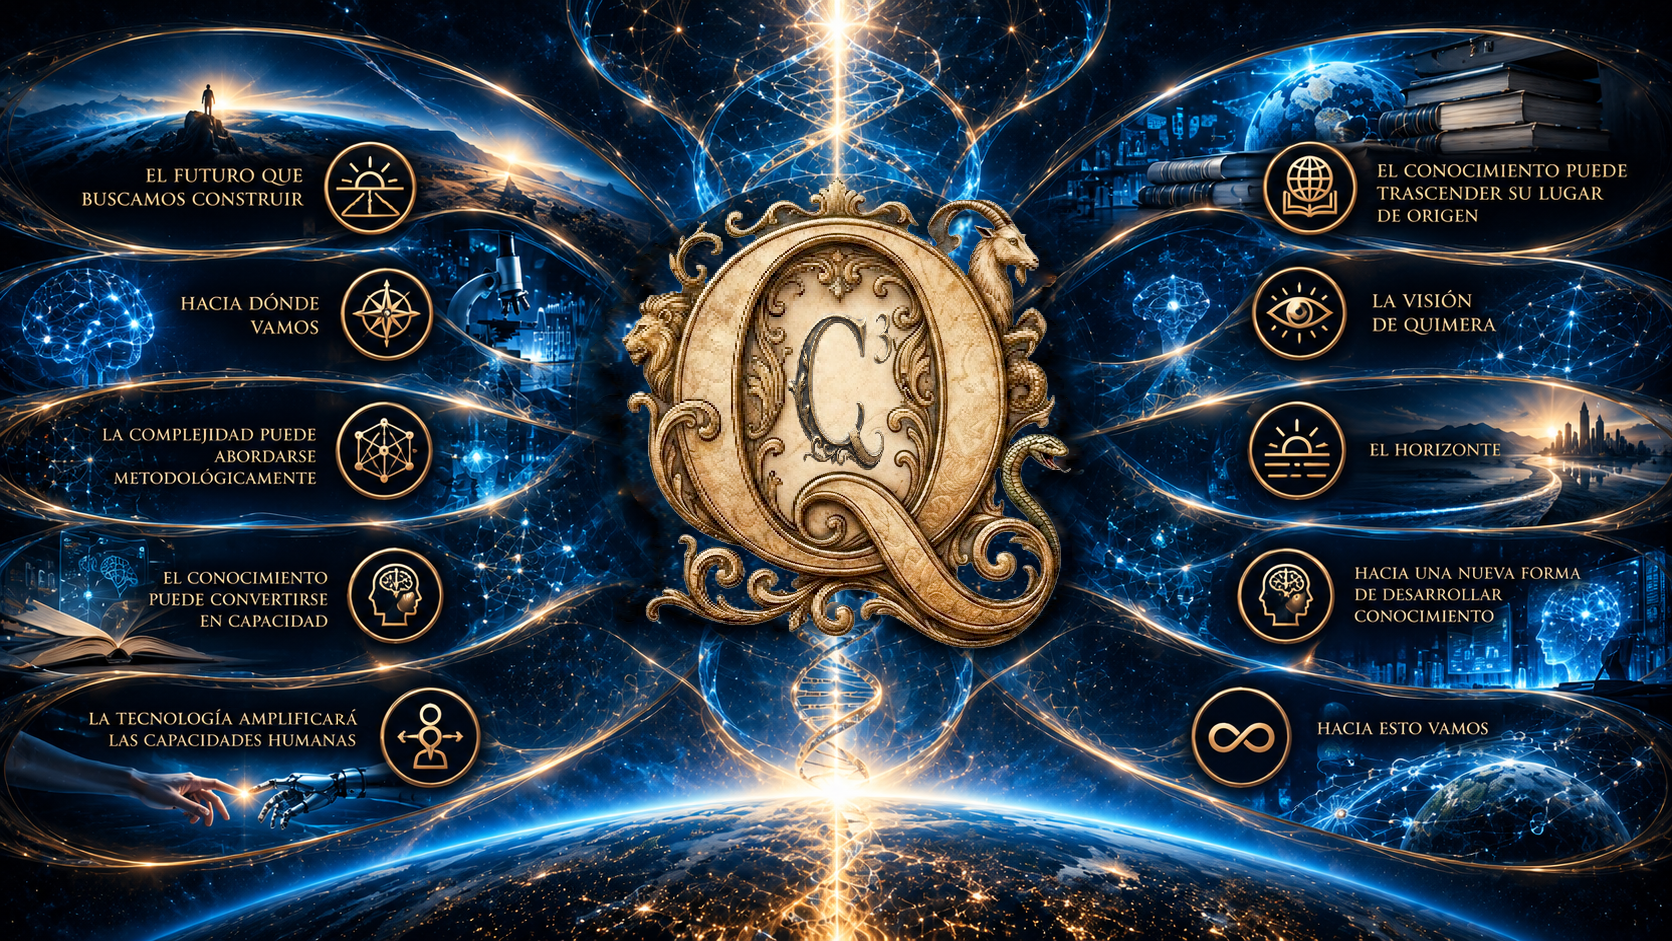
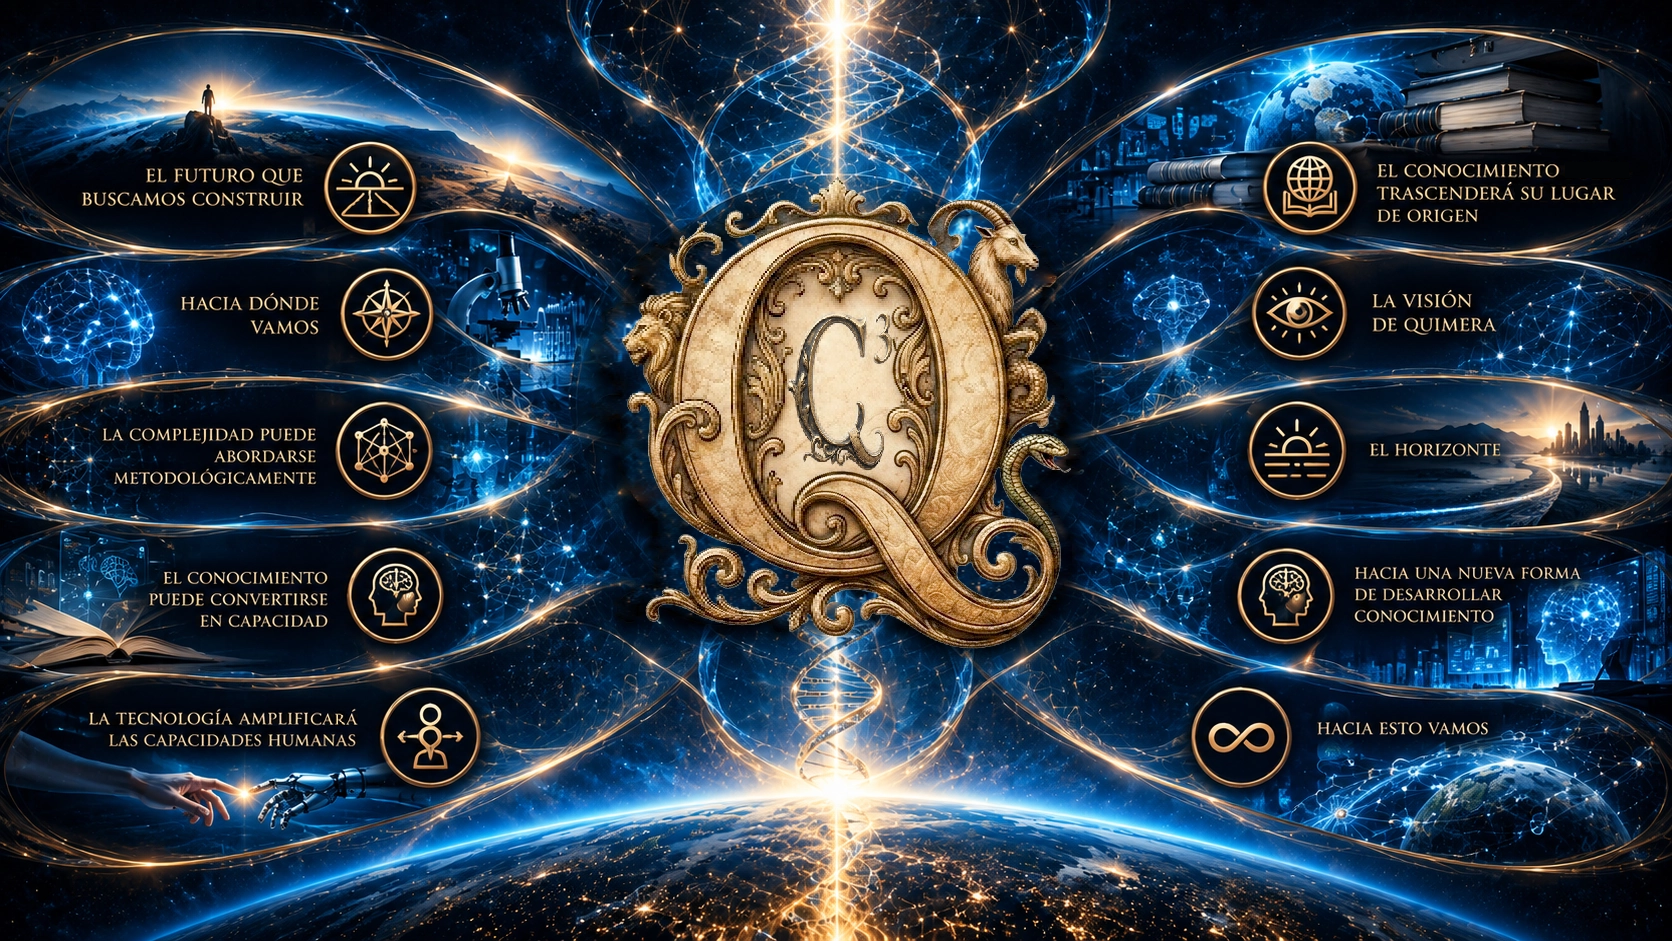
Quimera activada

Changed region(s): [[0.8708, 0.1541, 0.9641, 0.2157]]

diff --git a/index.html b/index.html
@@ -60,7 +60,7 @@
             width: 100vw;
             height: 100vh;
             z-index: -1;
-            background: linear-gradient(rgba(15, 23, 42, 0.0), rgba(15, 23, 42, 0.0)), url('Quimera_Vision.webp');
+            background: linear-gradient(rgba(15, 23, 42, 0.0), rgba(15, 23, 42, 0.0)), url('Quimera_V.webp');
             background-size: cover;
             background-position: center center;
             background-attachment: fixed;
